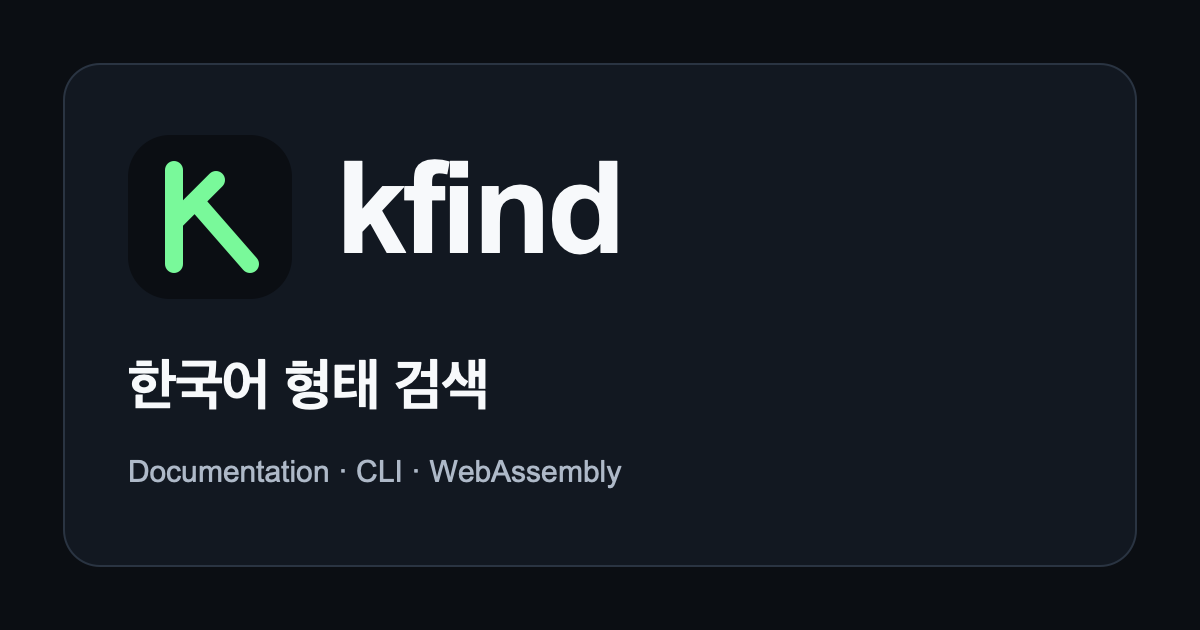
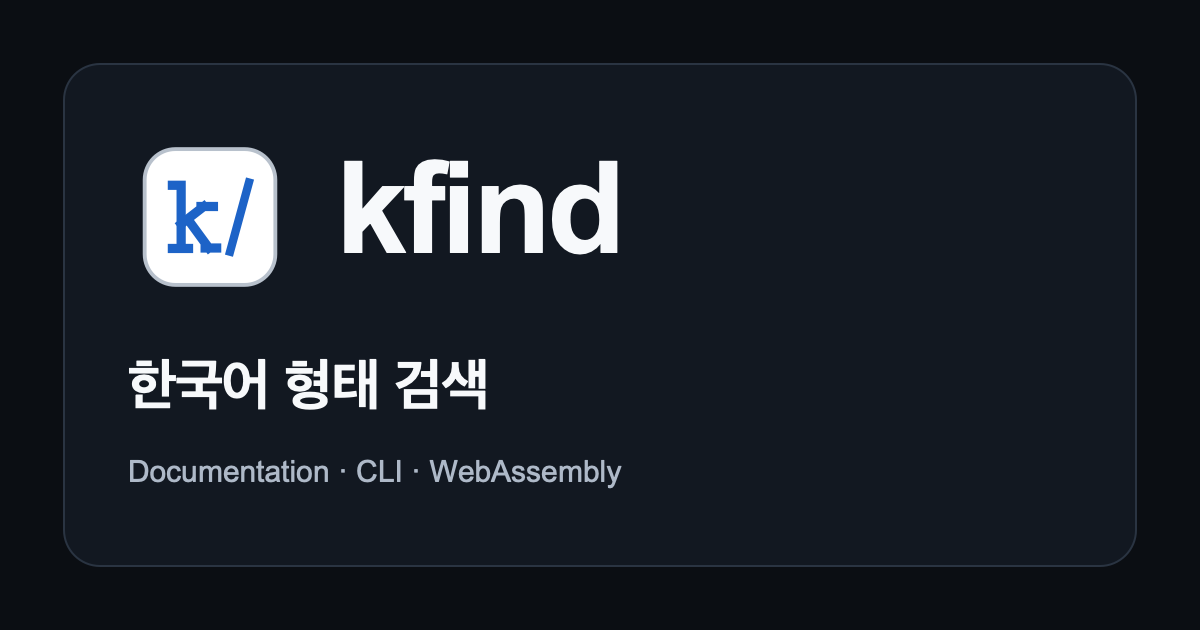
feat(kfind/brand): 제품 로고를 배포 표면에 통일한다 (#252)

Changed region(s): [[0.0925, 0.2111, 0.2467, 0.4825]]

diff --git a/site/src/root.tsx b/site/src/root.tsx
@@ -17,7 +17,18 @@ import { DocumentI18nProvider } from './app/i18n-provider';
 import { DocumentLoading, Shell } from './app/shell';
 
 export const links: LinksFunction = () => [
-  { rel: 'icon', href: '/favicon.svg', type: 'image/svg+xml' },
+  { rel: 'icon', href: '/favicon.ico', type: 'image/x-icon' },
+  {
+    rel: 'icon',
+    href: '/favicon.svg',
+    sizes: 'any',
+    type: 'image/svg+xml',
+  },
+  {
+    rel: 'apple-touch-icon',
+    href: '/apple-touch-icon.png',
+    sizes: '180x180',
+  },
   {
     rel: 'stylesheet',
     href: 'https://cdn.jsdelivr.net/gh/orioncactus/pretendard@v1.3.9/dist/web/variable/pretendardvariable-dynamic-subset.min.css',

diff --git a/site/src/app/shell.tsx b/site/src/app/shell.tsx
@@ -248,9 +248,14 @@ export function Shell(): React.JSX.Element {
             to={localizedDocumentHref(RoutePath.Overview, locale)}
             aria-label={t('common.brand.home_aria')}
           >
-            <span className="brand-mark" aria-hidden="true">
-              k/
-            </span>
+            <img
+              alt=""
+              aria-hidden="true"
+              className="brand-mark"
+              height="29"
+              src="/favicon.svg"
+              width="29"
+            />
             <span>kfind</span>
             <span className="brand-suffix">
               {t('common.brand.document_suffix')}

diff --git a/site/src/site.css.ts b/site/src/site.css.ts
@@ -33,16 +33,10 @@ globalStyle('.brand', {
 });
 
 globalStyle('.brand-mark', {
-  display: 'grid',
+  display: 'block',
+  flexShrink: 0,
   width: '1.8rem',
   height: '1.8rem',
-  placeItems: 'center',
-  border: `1px solid ${vars.color.borderStrong}`,
-  borderRadius: vars.radius.small,
-  background: vars.color.codeBackground,
-  color: vars.color.link,
-  fontFamily: '"SFMono-Regular", Consolas, monospace',
-  fontSize: '0.72rem',
 });
 
 globalStyle('.brand-suffix', {

diff --git a/specs/kfind.md b/specs/kfind.md
@@ -284,6 +284,10 @@
 - 공개 문서와 playground는 `https://kfind.pages.dev`의 정적 Cloudflare Pages site로 배포한다.
   문서는 제품 목적과 goal/non-goal, 검색 model, query 문법, 사람·에이전트 workflow, 주요 옵션,
   최신 제품·외부 benchmark를 설명하고 전체 README와 source report로 연결한다.
+- site header, browser favicon, touch icon과 social card는 둥근 사각형 안의 `k/` brand mark를
+  공유한다. Header에서는 mark 옆에 `kfind` 이름을 유지하고, 작은 크기의 icon은 같은 벡터
+  형상을 사용해 흐려지거나 찌그러지지 않아야 한다. Icon metadata를 제공하는 배포 채널은
+  128px 이상의 PNG 자산을 사용한다.
 - 한국어 문장은 기술 개념의 관계와 동작이 바로 드러나도록 쓴다. 제품·도메인의 표준 용어와
   코드 식별자는 원문 표기를 유지하되, 영어 문장 구조를 직역하거나 일반 용어를 기계적으로
   음역하지 않는다. 조건과 결과가 한 문장에 몰리면 문장을 나눠 설명한다.
